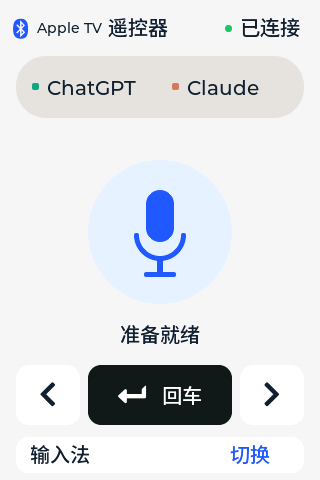
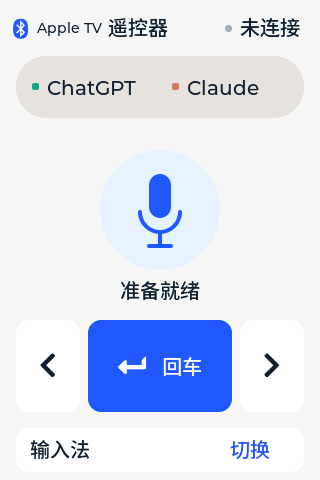
Compact microphone layout and use blue Return button

diff --git a/esp32-siri-pad/main/ui.cpp b/esp32-siri-pad/main/ui.cpp
@@ -42,7 +42,7 @@ static void tick(lv_timer_t*){
  lv_obj_set_style_bg_color(dot,lv_color_hex(s.ble?0x27c466:0xa5aeba),0);
  lv_color_t color=s.voice?lv_color_white():blue();
  lv_obj_set_style_bg_color(mic,s.voice?blue():lv_color_hex(0xe5f1ff),0);
- lv_obj_set_style_shadow_width(mic,s.voice?20:0,0);lv_obj_set_style_shadow_color(mic,blue(),0);lv_obj_set_style_shadow_opa(mic,LV_OPA_30,0);
+ lv_obj_set_style_shadow_width(mic,s.voice?12:0,0);lv_obj_set_style_shadow_color(mic,blue(),0);lv_obj_set_style_shadow_opa(mic,LV_OPA_30,0);
  for(auto *o:{capsule,stem,base})lv_obj_set_style_bg_color(o,color,0);
  lv_obj_set_style_arc_color(arc,color,LV_PART_MAIN);
  lv_obj_set_style_opa(mic,s.usb?LV_OPA_COVER:LV_OPA_50,0);
@@ -98,24 +98,24 @@ void pad_ui_init(){
   auto *label=text(apps[i],i==0?"ChatGPT":"Claude",27,17,&lv_font_montserrat_20);
   lv_obj_set_style_bg_color(apps[i],lv_color_hex(0xffffff),LV_STATE_PRESSED);
  }
- mic=box(screen,88,160,144,144,0xe5f1ff,72);lv_obj_add_flag(mic,LV_OBJ_FLAG_CLICKABLE);
+ mic=box(screen,100,150,120,120,0xe5f1ff,60);lv_obj_add_flag(mic,LV_OBJ_FLAG_CLICKABLE);
  lv_obj_add_event_cb(mic,[](lv_event_t*){pad_toggle_board_mic();},LV_EVENT_CLICKED,nullptr);
- capsule=box(mic,58,30,28,52,0x245bff,14);
- arc=lv_arc_create(mic);lv_obj_remove_style_all(arc);lv_obj_set_pos(arc,46,49);lv_obj_set_size(arc,52,52);
- lv_arc_set_bg_angles(arc,0,180);lv_arc_set_angles(arc,0,0);lv_obj_set_style_arc_width(arc,5,LV_PART_MAIN);lv_obj_set_style_arc_color(arc,blue(),LV_PART_MAIN);lv_obj_set_style_arc_rounded(arc,true,LV_PART_MAIN);lv_obj_clear_flag(arc,LV_OBJ_FLAG_CLICKABLE);
- stem=box(mic,69,98,6,17,0x245bff,3);base=box(mic,56,112,32,5,0x245bff,3);
- mic_status=text(screen,"准备就绪",0,324,&font_cn20);lv_obj_set_width(mic_status,320);lv_obj_set_style_text_align(mic_status,LV_TEXT_ALIGN_CENTER,0);
+ capsule=box(mic,49,24,22,44,0x245bff,11);
+ arc=lv_arc_create(mic);lv_obj_remove_style_all(arc);lv_obj_set_pos(arc,38,40);lv_obj_set_size(arc,44,44);
+ lv_arc_set_bg_angles(arc,0,180);lv_arc_set_angles(arc,0,0);lv_obj_set_style_arc_width(arc,4,LV_PART_MAIN);lv_obj_set_style_arc_color(arc,blue(),LV_PART_MAIN);lv_obj_set_style_arc_rounded(arc,true,LV_PART_MAIN);lv_obj_clear_flag(arc,LV_OBJ_FLAG_CLICKABLE);
+ stem=box(mic,58,82,4,14,0x245bff,2);base=box(mic,47,94,26,4,0x245bff,2);
+ mic_status=text(screen,"准备就绪",0,280,&font_cn20);lv_obj_set_width(mic_status,320);lv_obj_set_style_text_align(mic_status,LV_TEXT_ALIGN_CENTER,0);
  const char *labels[]={LV_SYMBOL_LEFT,LV_SYMBOL_RIGHT,LV_SYMBOL_NEW_LINE};uint8_t codes[]={0x50,0x4f,0x28};
  for(int i=0;i<3;i++){
-  keys[i]=box(screen,i==0?16:i==1?240:88,365,i==2?144:64,60,i==2?0x171a1c:0xffffff,13);
-  lv_obj_add_flag(keys[i],LV_OBJ_FLAG_CLICKABLE);lv_obj_set_style_bg_color(keys[i],lv_color_hex(i==2?0x40454a:0xdce6ff),LV_STATE_PRESSED);
+  keys[i]=box(screen,i==0?16:i==1?240:88,320,i==2?144:64,92,i==2?0x245bff:0xffffff,13);
+  lv_obj_add_flag(keys[i],LV_OBJ_FLAG_CLICKABLE);lv_obj_set_style_bg_color(keys[i],lv_color_hex(i==2?0x1742c8:0xdce6ff),LV_STATE_PRESSED);
   lv_obj_add_event_cb(keys[i],key_event,LV_EVENT_ALL,(void*)(uintptr_t)codes[i]);
   auto *label=text(keys[i],labels[i],0,0,&lv_font_montserrat_28);lv_obj_align(label,LV_ALIGN_CENTER,i==2?-28:0,0);
   if(i==2){lv_obj_set_style_text_color(label,lv_color_white(),0);auto *t=text(keys[i],"回车",0,0,&font_cn20);lv_obj_set_style_text_color(t,lv_color_white(),0);lv_obj_align(t,LV_ALIGN_CENTER,22,0);}
  }
- input_button=box(screen,16,437,288,36,0xffffff,12);lv_obj_add_flag(input_button,LV_OBJ_FLAG_CLICKABLE);
+ input_button=box(screen,16,428,288,44,0xffffff,12);lv_obj_add_flag(input_button,LV_OBJ_FLAG_CLICKABLE);
  lv_obj_add_event_cb(input_button,shortcut_event,LV_EVENT_CLICKED,(void*)(uintptr_t)PAD_ACTION_INPUT);
- text(input_button,"输入法",14,7,&font_cn20);auto *switch_label=text(input_button,"切换",214,7,&font_cn20);lv_obj_set_style_text_color(switch_label,blue(),0);
+ text(input_button,"输入法",14,11,&font_cn20);auto *switch_label=text(input_button,"切换",214,11,&font_cn20);lv_obj_set_style_text_color(switch_label,blue(),0);
  lv_obj_set_style_bg_color(input_button,lv_color_hex(0xdce6ff),LV_STATE_PRESSED);
  lv_timer_create(tick,100,nullptr);lvgl_port_unlock();pad_onboard_init(bus);
  // An explicit final panel reset/redraw restored the real display in field testing.

diff --git a/esp32-siri-pad/验收记录.md b/esp32-siri-pad/验收记录.md
@@ -68,4 +68,9 @@
 
 - 用户确认 Mac 端已配置 Ctrl＋Option＋Command＋G（ChatGPT）、Ctrl＋Option＋Command＋C（Claude），固件同步为 HID G=0x0a、C=0x06，修饰键保持左 Ctrl／Option／Command=0x0d。
 - 遥控器左／右和屏幕应用按钮发送新组合；屏幕底部光标左右键、输入法、回车和语音逻辑不变。17 组状态与快捷键测试通过。
-- 当前等待 Pad 接回本机后刷入，未将源码更新等同于设备已更新。
+- 已随紧凑布局版刷入目标 Pad，写入校验通过，USB 重新识别成功；G／C 快捷键电脑端效果待用户实测。
+
+## 紧凑布局与蓝色回车
+
+- 回车改蓝色，麦克风从 144×144 缩为 120×120，状态文字紧随图标；底部光标及回车键从 60 加高至 92 像素。
+- 编译、刷写校验和 USB 重新枚举通过，已读取设备实际界面帧缓冲，未见裁切。屏幕保留 180° 旋转，用户目视及触摸验收待确认。

diff --git a/esp32-siri-pad/README.md b/esp32-siri-pad/README.md
@@ -8,6 +8,8 @@
 
 ## 操作
 
+回车按钮采用蓝色；麦克风直径缩至 120 像素，状态文字紧随图标，下方光标／回车按钮加高。
+
 屏幕默认相对初版旋转 **180°**，保持 320×480 竖屏。LVGL 同步旋转触摸坐标，触摸驱动无需再翻转。
 
 - 遥控器侧面语音键：按住发送右 Option，同时将遥控器麦克风声音送入 USB 麦克风；松开停止。
